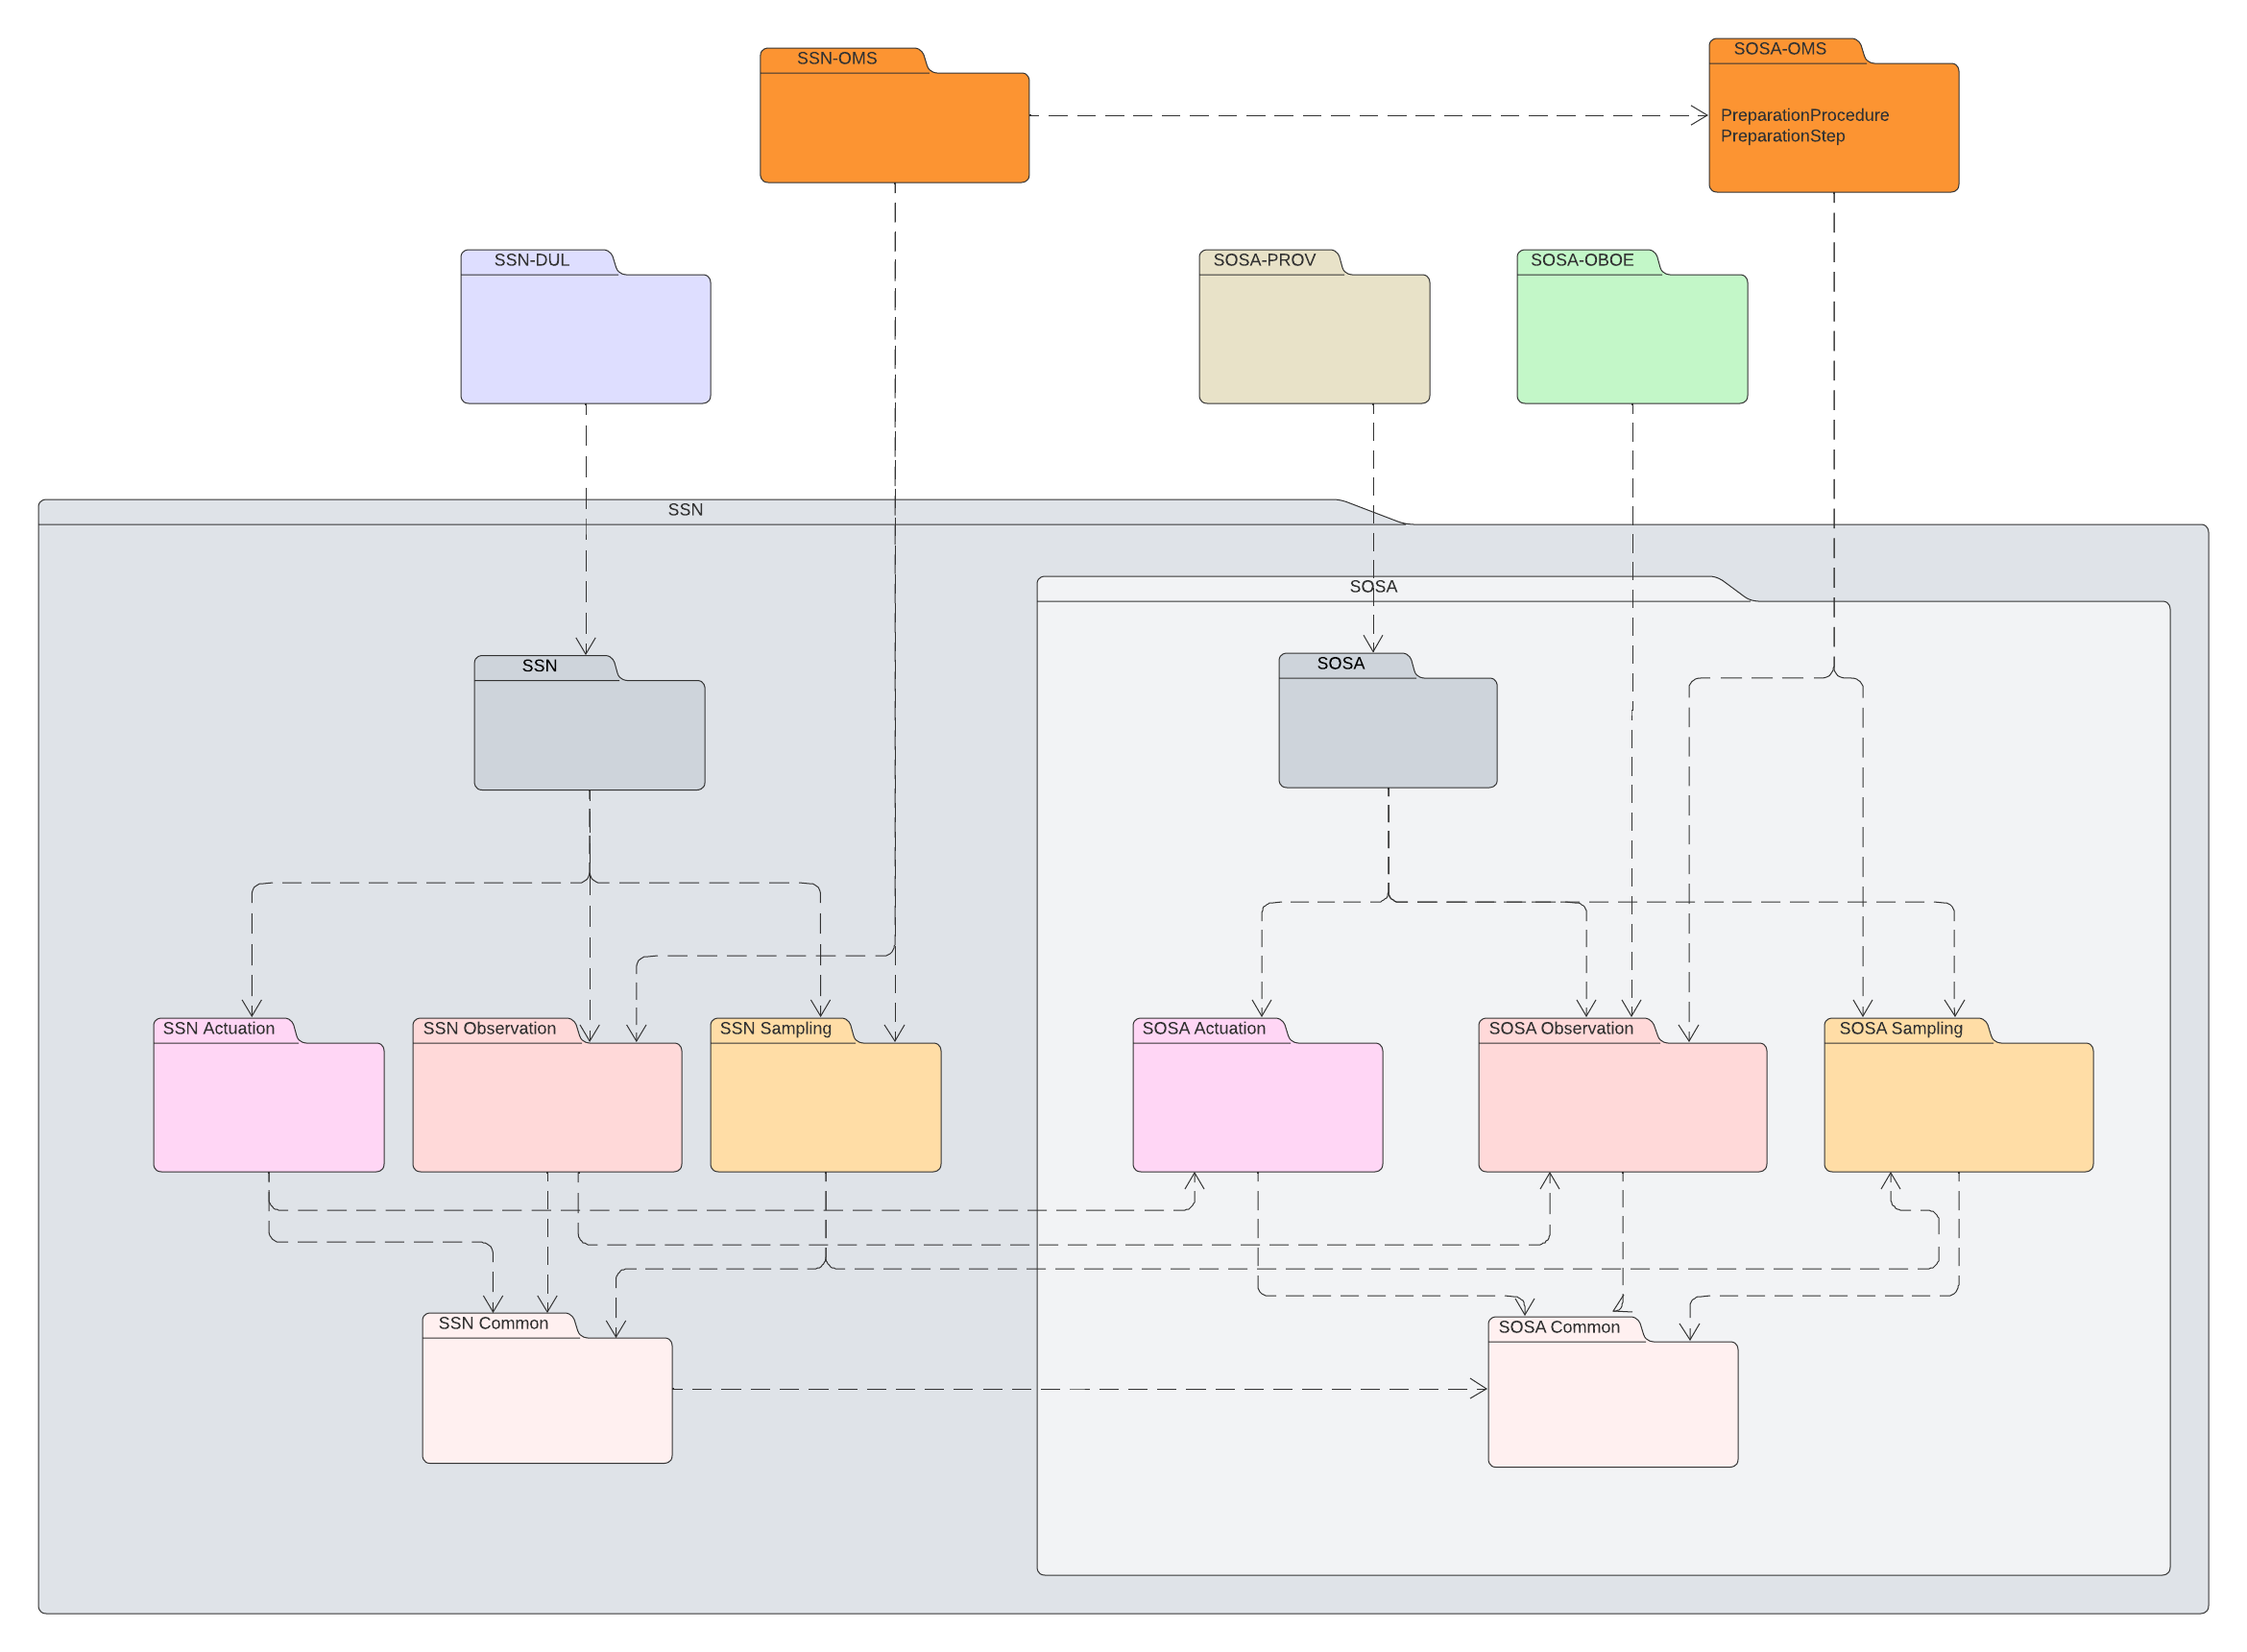
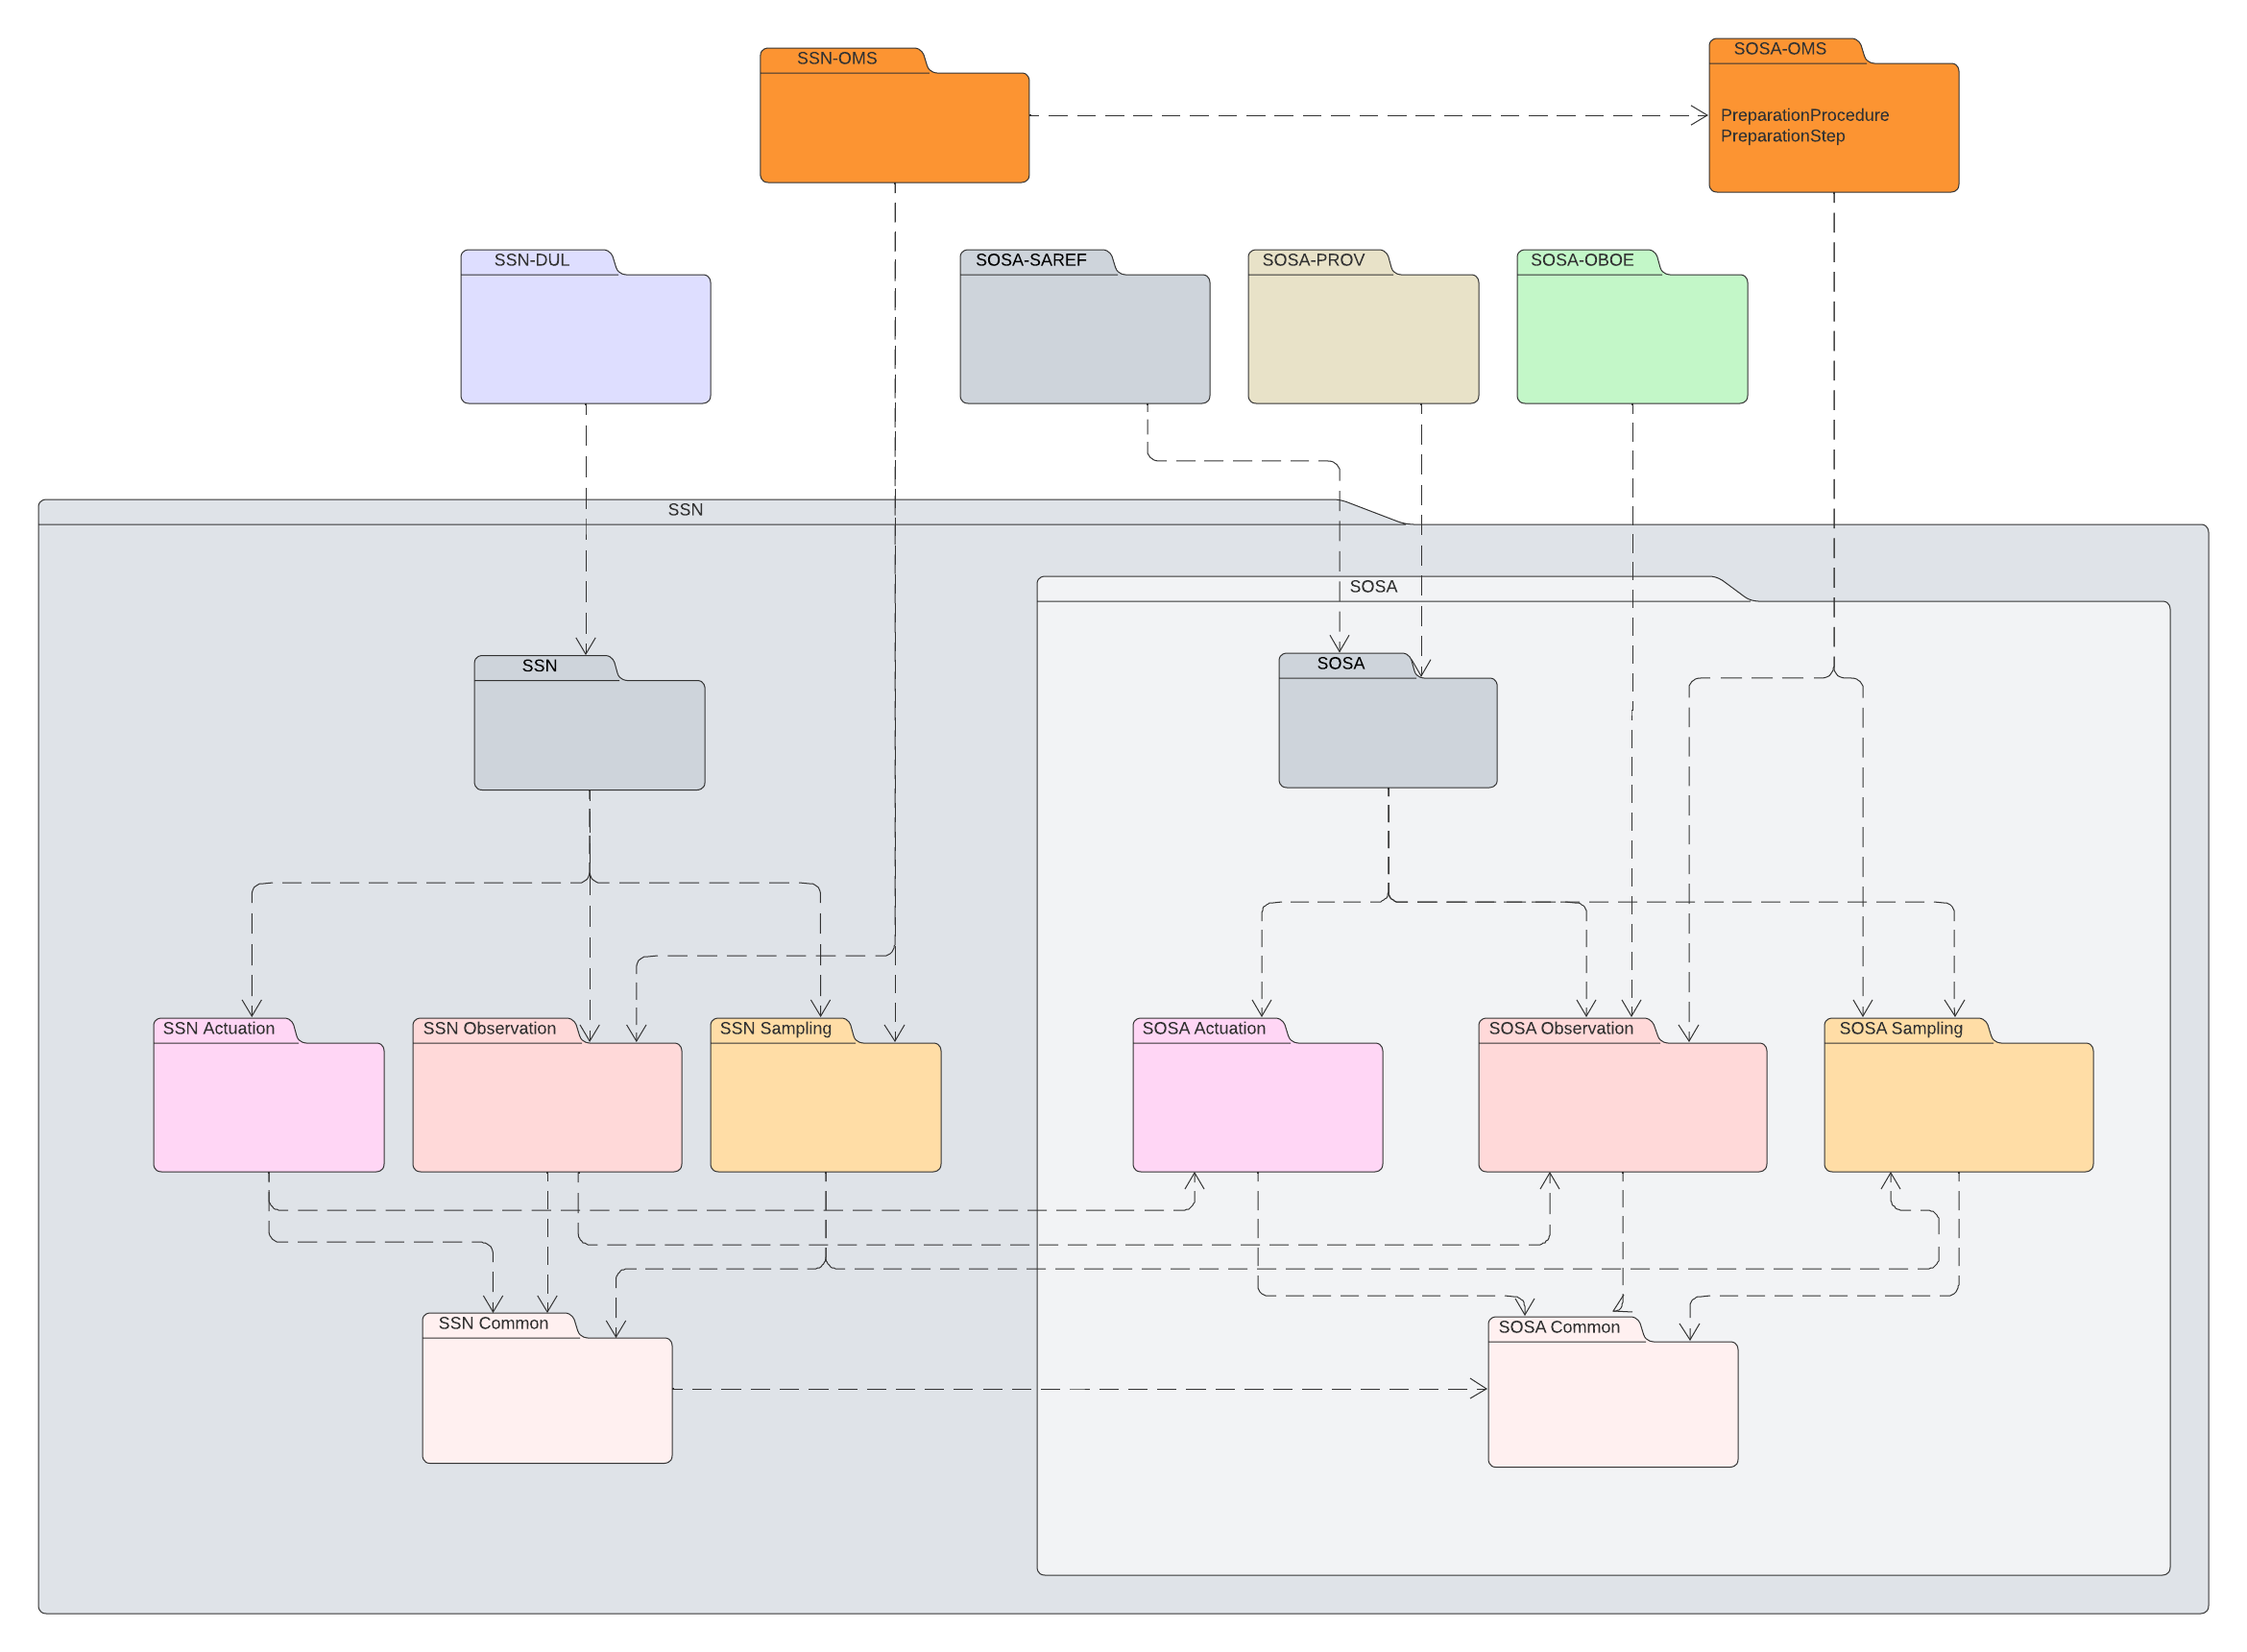
Add SOSA-SAREF to alignments diagram

Changed region(s): [[0.4056, 0.1233, 0.6863, 0.2465]]

diff --git a/ssn/frag/notation.html b/ssn/frag/notation.html
@@ -22,7 +22,7 @@
         <h4>Module diagrams</h4>
 
         <figure id="module-diagram-notation">
-            <img alt="UML-ish notation for module diagrams" src="images/ModuleKey.png">
+            <img alt="UML-ish notation for module diagrams" src="images/ModuleKey.png" width="60%">
             <figcaption>
                 Key to notation used in module diagrams.
                 <br>
@@ -41,7 +41,7 @@
         <h4>Class and property diagrams</h4>
 
         <figure id="class-diagram-notation">
-            <img alt="UML-ish notation for class+property diagrams" src="images/ClassKey.png">
+            <img alt="UML-ish notation for class+property diagrams" src="images/ClassKey.png" width="60%">
             <figcaption>
                 Key to notation used in class and property diagrams.
                 <br>
